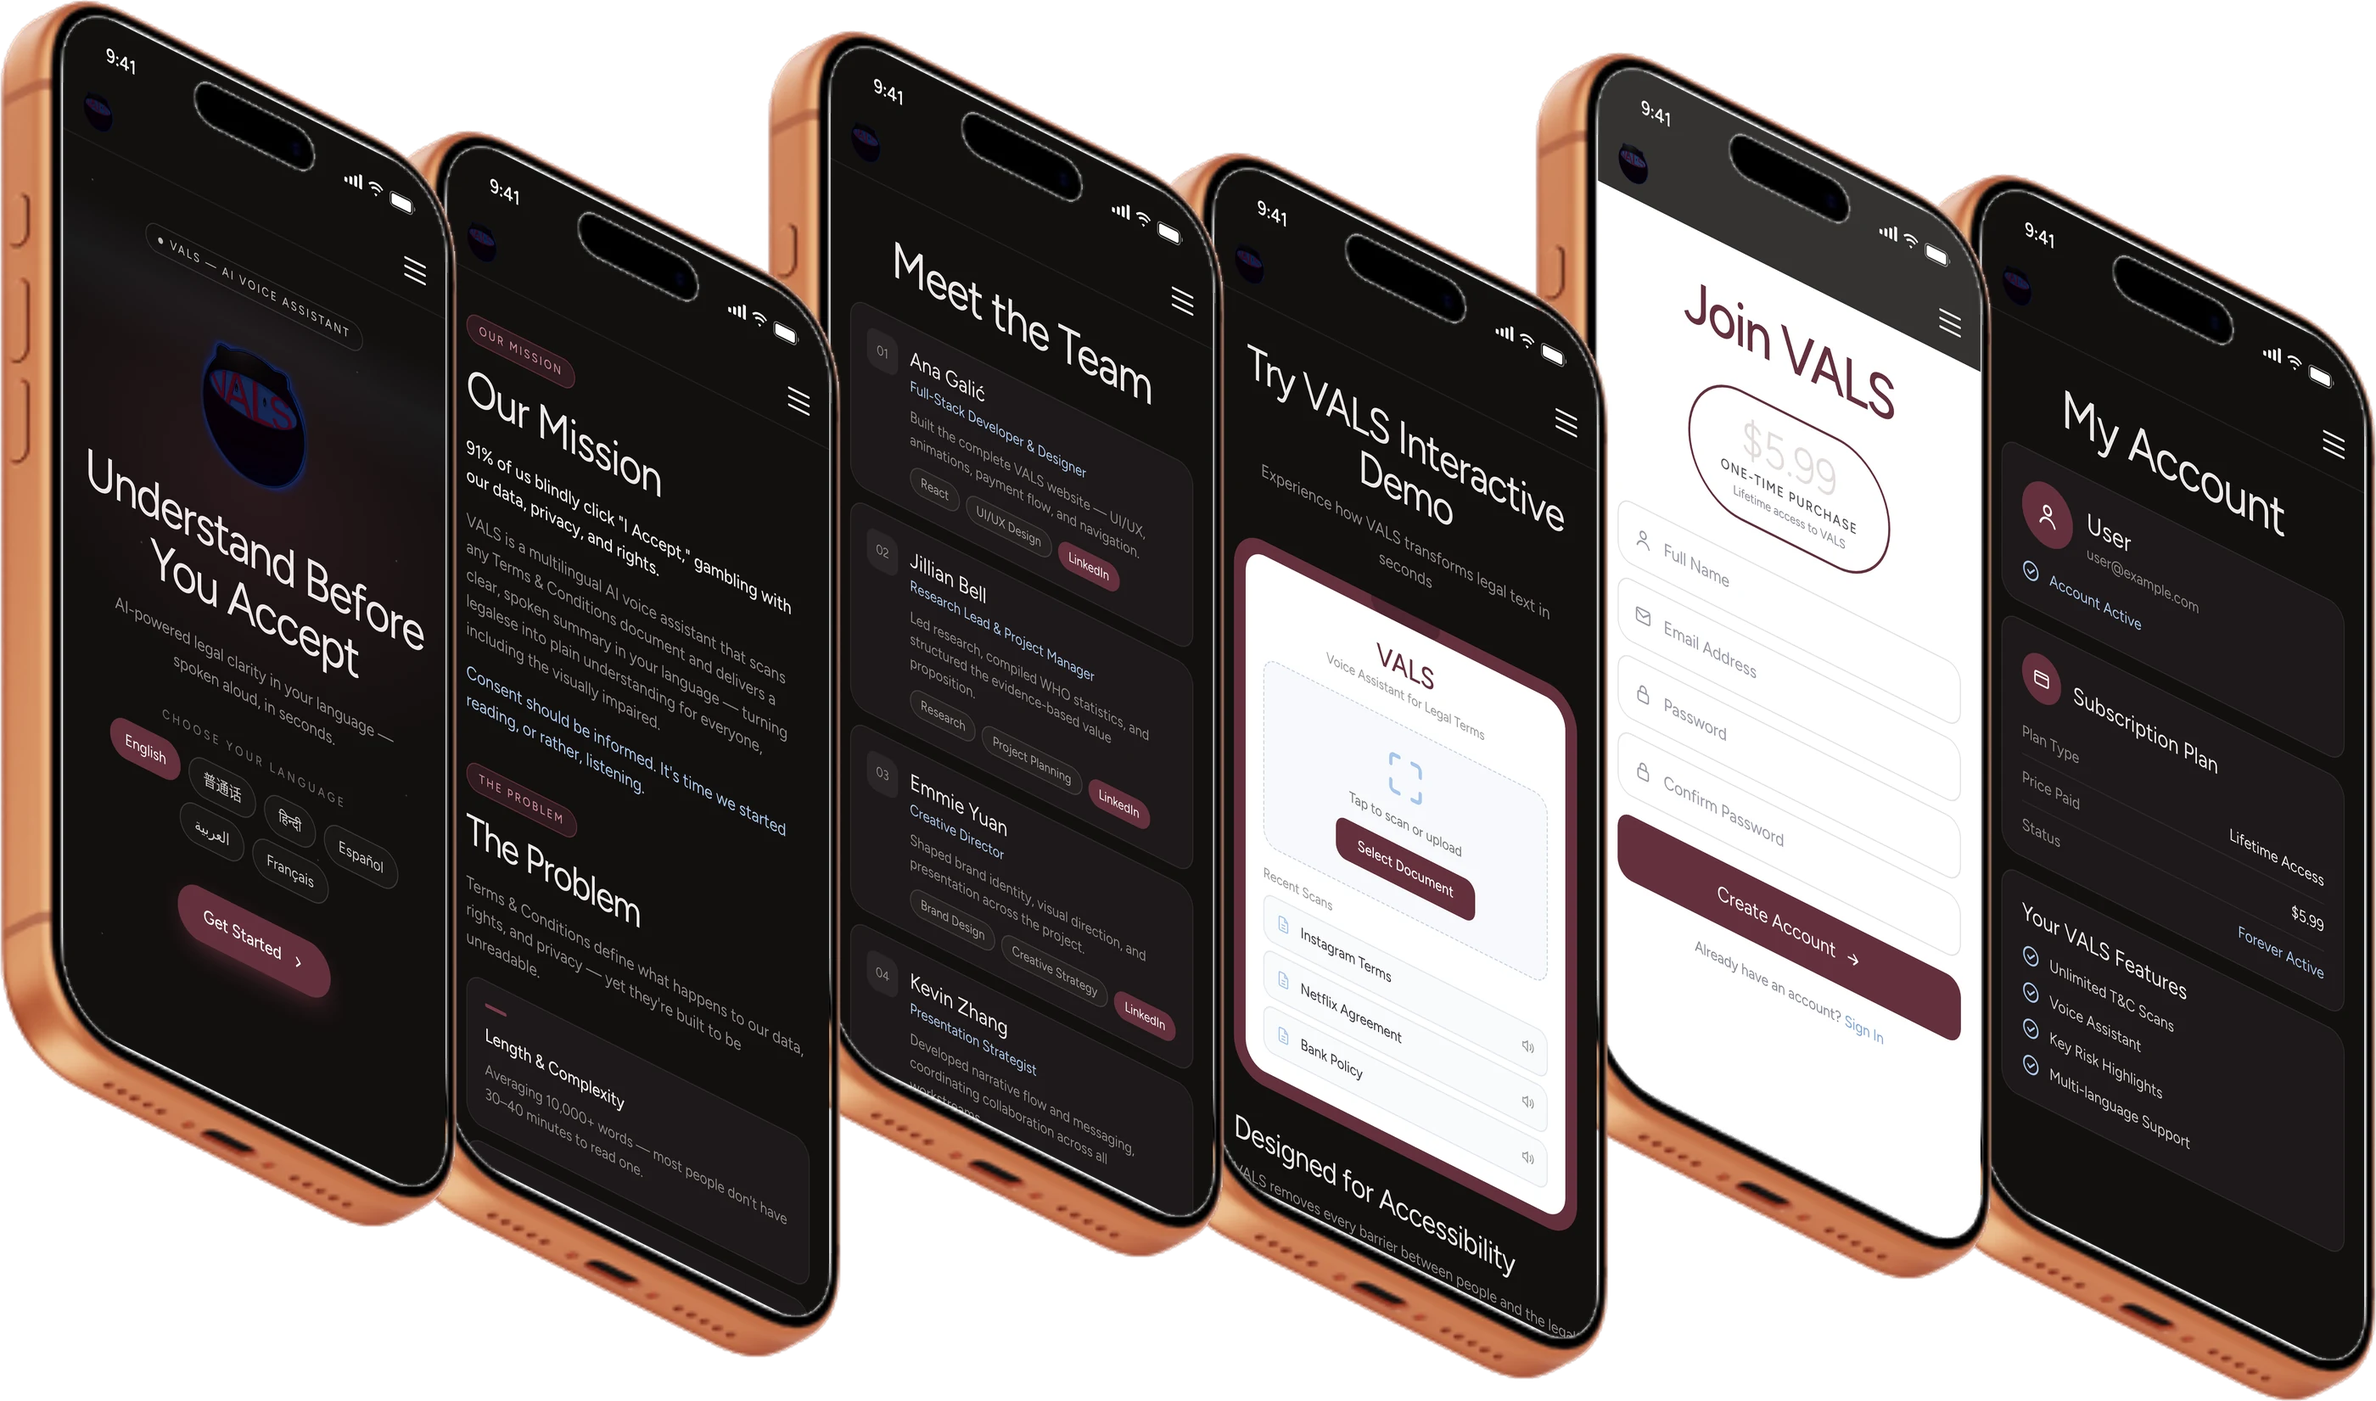
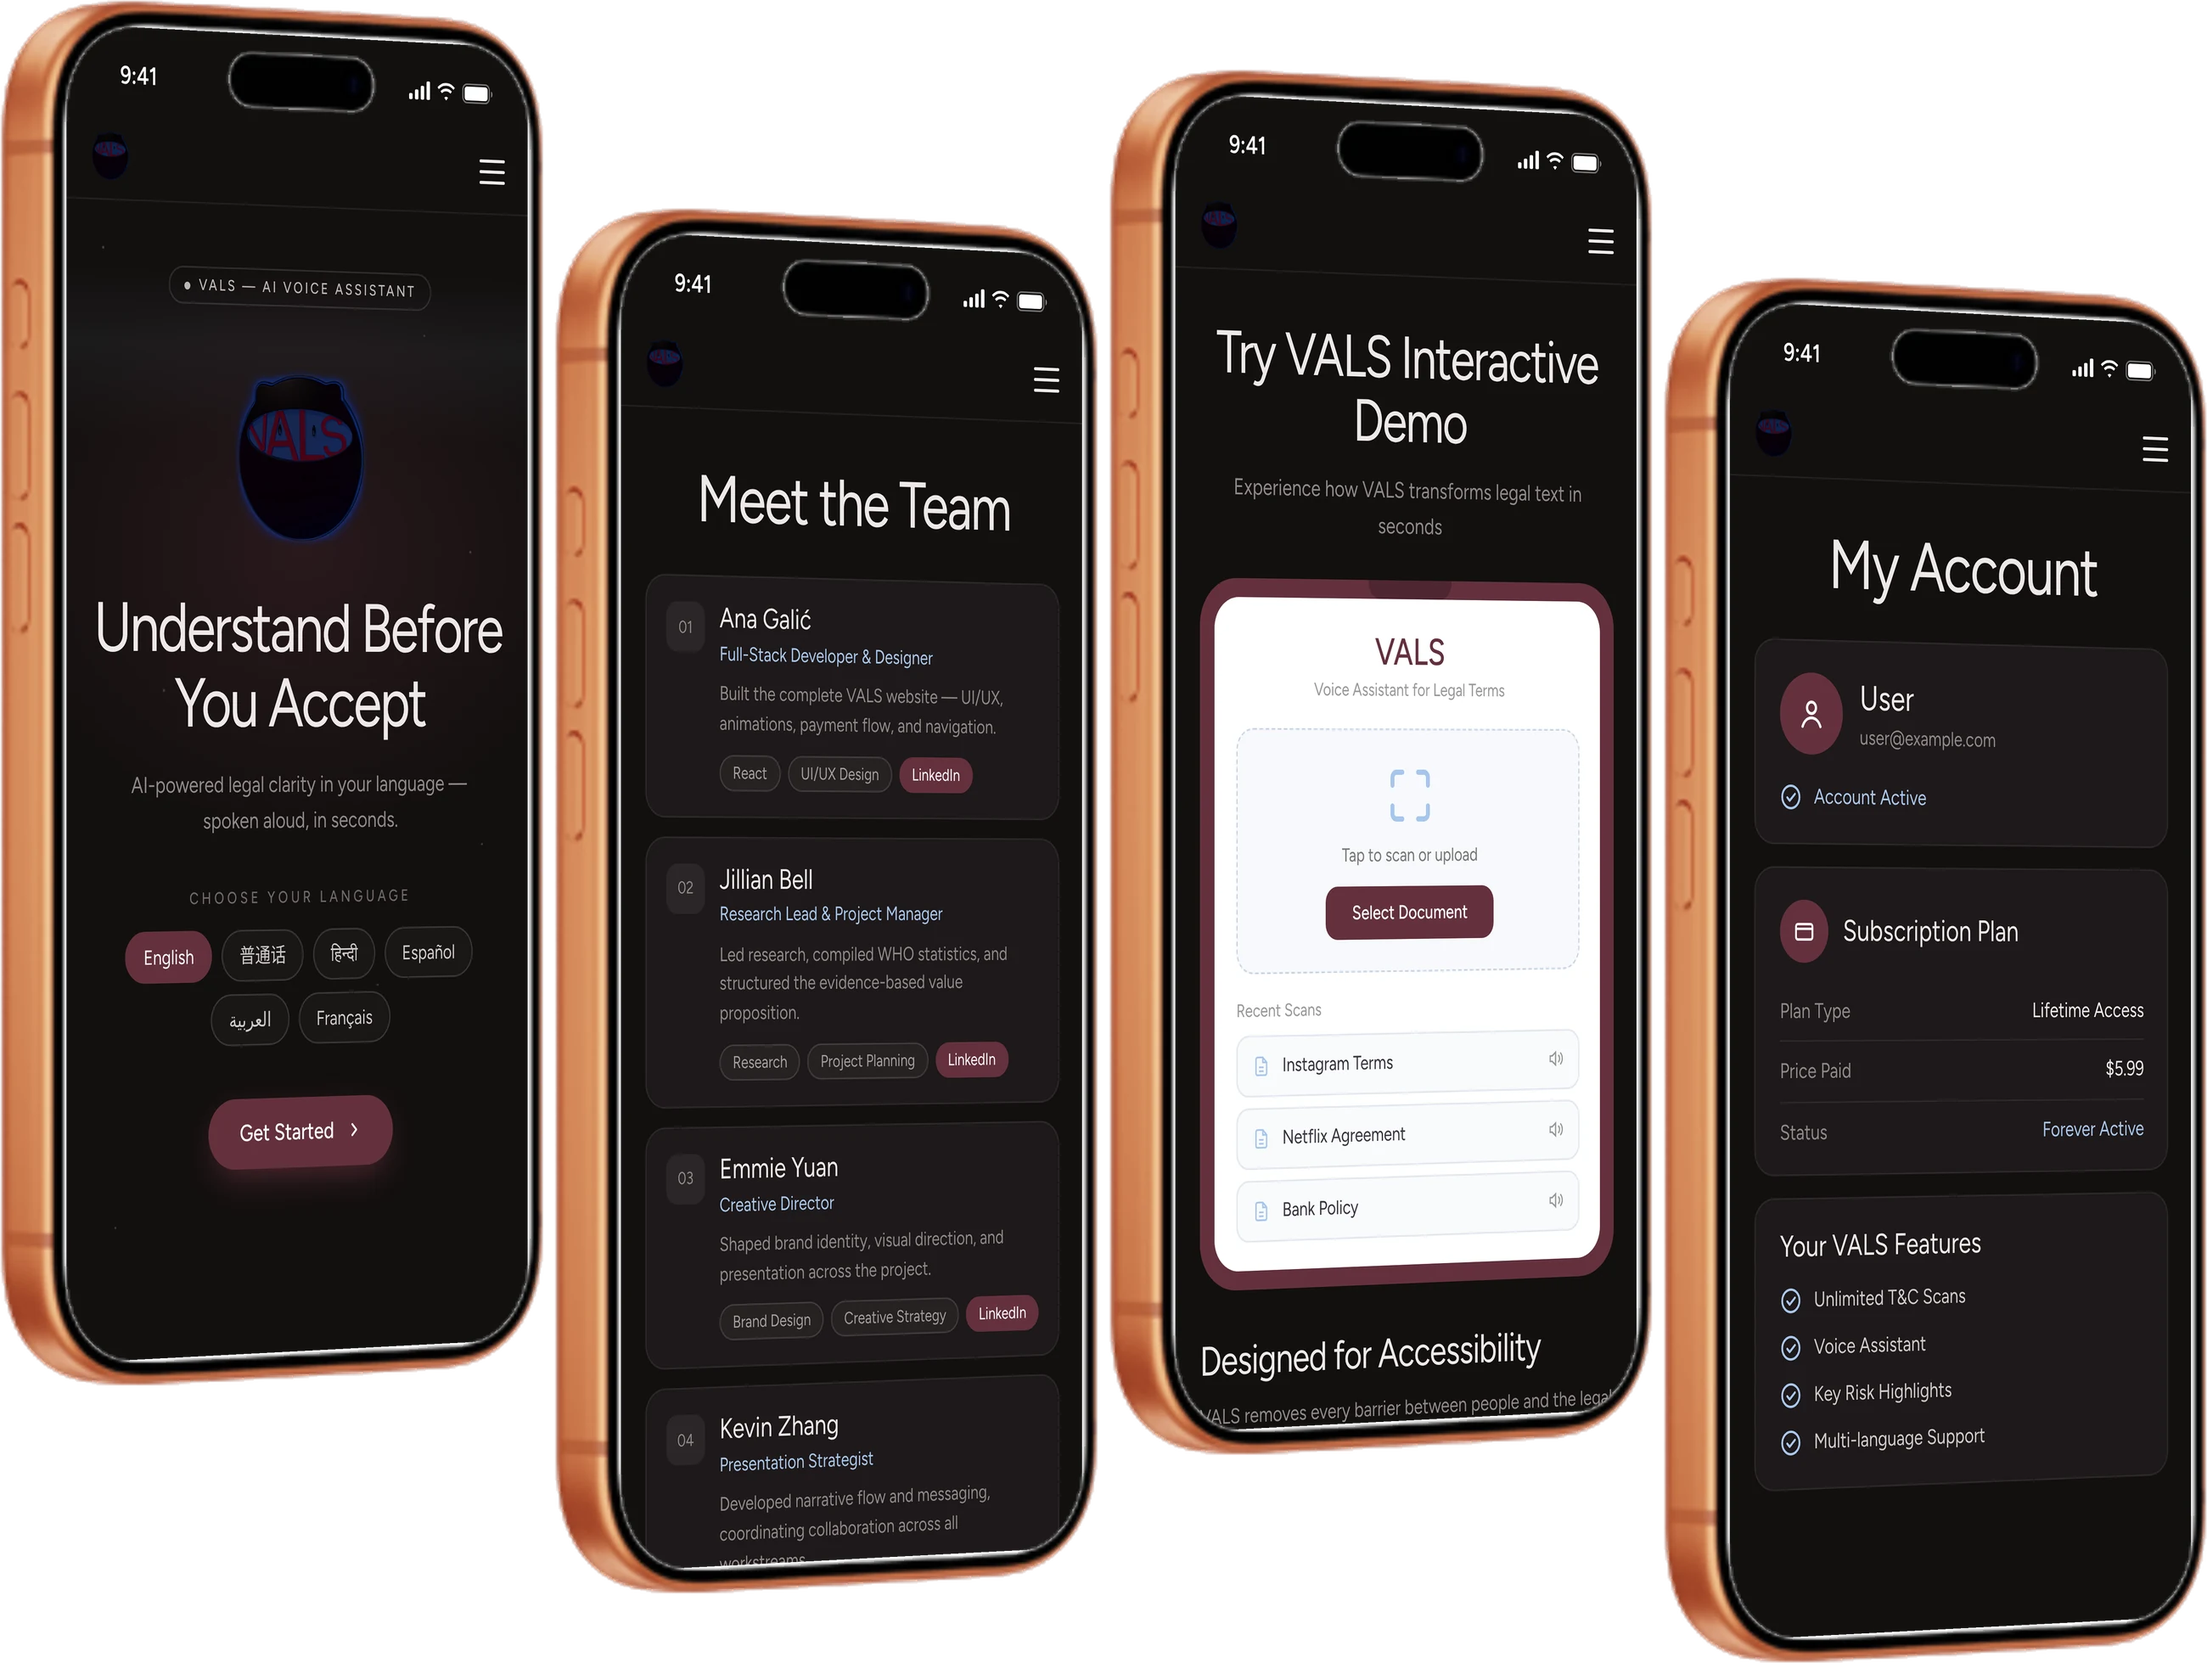
VALS: head mockup in the Soulshine layout with the new phone (Home, Team, Demo, My Account)
Claude-Session: https://claude.ai/code/session_017Bf2Ji9pqjddmca5aaYHp1

diff --git a/index.html b/index.html
@@ -2029,7 +2029,7 @@ h3,.hl h3,.ss-lead .hl h3,.ss-roles .hl h3,.steps h3,.lede,.meta dd,.stat strong
           <p class="label ss-sub">AI voice assistant</p>
         </header>
         <div class="pl-top ss-top vl-top">
-          <figure class="ss-phones"><img src="img/vals/mobile-mockup.webp" width="2800" height="1651" alt="Six phones showing the VALS Home, About, Team, Demo, Sign up and My Account pages on mobile"></figure>
+          <figure class="ss-phones"><img src="img/vals/mobile-mockup.webp?v=2" width="2600" height="1959" alt="Four phones showing the VALS Home, Team, Demo and My Account pages on mobile"></figure>
           <div class="pl-side">
             <dl class="meta">
               <div><dt class="label">Role</dt><dd>Product Design &amp; Front-End Development</dd></div>
